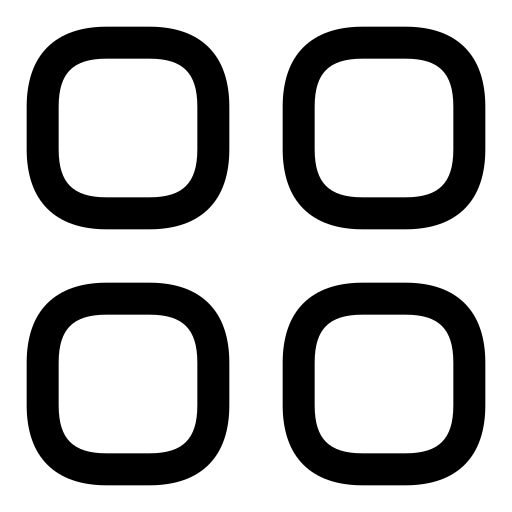
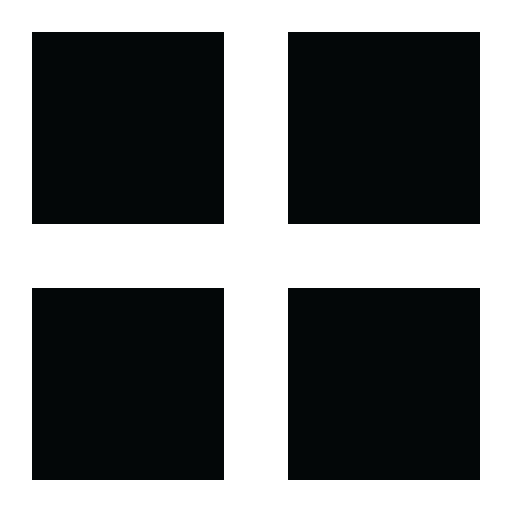
Grid Changes

diff --git a/src/components/Filter.css b/src/components/Filter.css
@@ -177,158 +177,20 @@ button{
     margin: 2px 0px;    
 }
 
-/* The RadioContainer */
-.RadioContainer {
-    display: block;
-    position: relative;
-    padding-left: 35px;
-    margin-bottom: 12px;
+/* Common styling for RadioContainer and CheckboxContainer */
+.RadioContainer,
+.CheckboxContainer {
     cursor: pointer;
     font-size: 22px;
-    -webkit-user-select: none;
-    -moz-user-select: none;
-    -ms-user-select: none;
-    user-select: none;
-  }
-  
-/* Hide the browser's default checkbox */
-.RadioContainer input {
-    position: absolute;
-    opacity: 0;
-    cursor: pointer;
-    height: 0;
-    width: 0;
-}
-  
-/* Create a custom checkbox */
-.checkmark {
-    position: absolute;
-    top: 0;
-    left: 0;
-    height: 25px;
-    width: 25px;
-    background-color: #eee;
-    border-radius: 5px;
-}
-  
-/* On mouse-over, add a grey background color */
-.RadioContainer:hover input ~ .checkmark {
-    background-color: #ccc;
-}
-  
-/* When the checkbox is checked, add a blue background */
-.RadioContainer input:checked ~ .checkmark {
-    background-color: #ae7736;
-}
-  
-/* Create the checkmark/indicator (hidden when not checked) */
-.checkmark:after {
-    content: "";
-    position: absolute;
-    display: none;
-}
-  
-/* Show the checkmark when checked */
-.RadioContainer input:checked ~ .checkmark:after {
-    display: block;
-}
-  
-/* Style the checkmark/indicator */
-.RadioContainer .checkmark:after {
-    left: 9px;
-    top: 5px;
-    width: 5px;
-    height: 10px;
-    border: solid white;
-    border-width: 0 3px 3px 0;
-    -webkit-transform: rotate(45deg);
-    -ms-transform: rotate(45deg);
-    transform: rotate(45deg);
 }
 
 
-
-
-
-/* On mouse-over, add a grey background color */
-.CheckboxContainerWhite:hover input ~ .checkmark {
-    background-color: #ccc;
-}
-/* When the checkbox is checked, add a blue background */
-.CheckboxContainerWhite input:checked ~ .checkmark {
-    background-color: #ae7736;
-}
-
-.CheckboxContainerBlack:hover input ~ .checkmark {
-    background-color: #494F55;
-}
-
-.CheckboxContainerBlack input:checked ~ .checkmark {
-    background-color: #0C0404;
-}
-
-.CheckboxContainerBlue:hover input ~ .checkmark {
-    background-color: #7CB9E8;
-}
-.CheckboxContainerBlue input:checked ~ .checkmark {
-    background-color: #002D62;
-}
-
-.CheckboxContainerRed:hover input ~ .checkmark {
-    background-color: #fd5c63;
-}
-.CheckboxContainerRed input:checked ~ .checkmark {
-    background-color: #AA0000;
-}
-
-.CheckboxContainerGreen:hover input ~ .checkmark {
-    background-color: #90EE90;
-}
-.CheckboxContainerGreen input:checked ~ .checkmark {
-    background-color: #004526;
-}
-
-/* Show the checkmark when checked */
-.CheckboxContainer input:checked ~ .checkmark:after {
-    display: block;
-}
-  
-/* The RadioContainer */
-.CheckboxContainer   {
-    display: block;
-    position: relative;
-    padding-left: 35px;
-    margin-bottom: 12px;
-    cursor: pointer;
-    font-size: 22px;
-    -webkit-user-select: none;
-    -moz-user-select: none;
-    -ms-user-select: none;
-    user-select: none;
-  }
-
-
-/* Hide the browser's default checkbox */
+/* Styling for the input element within CheckboxContainer */
 .CheckboxContainer input {
-    position: absolute;
-    opacity: 0;
-    cursor: pointer;
-    height: 0;
-    width: 0;
+    padding: 10px; /* Adjust the padding as needed */
 }
 
-/* Style the checkmark/indicator */
-.CheckboxContainer .checkmark:after {
-    left: 9px;
-    top: 5px;
-    width: 5px;
-    height: 10px;
-    border: solid white;
-    border-width: 0 3px 3px 0;
-    -webkit-transform: rotate(45deg);
-    -ms-transform: rotate(45deg);
-    transform: rotate(45deg);
-}
+
 
 .StyleRadio{
     padding: 5px 0;

diff --git a/src/Pages/Products.js b/src/Pages/Products.js
@@ -271,17 +271,22 @@ function Products({ appliedFilters }) {
     }
   ];
 
+  const [selectedGrid, setSelectedGrid] = useState('Grid3'); // Default selected grid
+
   const switchTo2x2Grid = () => {
     setGridColumns('repeat(auto-fill, minmax(500px, 1fr))');
+    setSelectedGrid('Grid2');
   };
-  
+
   const switchTo3x3Grid = () => {
     setGridColumns('repeat(auto-fill, minmax(400px, 1fr))');
+    setSelectedGrid('Grid3');
   };
 
   const switchTo4x4Grid = () => {
     setGridColumns('repeat(auto-fill, minmax(250px, 1fr))');
-  };
+    setSelectedGrid('Grid4');
+  }
 
   const handlePageChange = (page) => {
     setCurrentPage(page);
@@ -325,14 +330,15 @@ function Products({ appliedFilters }) {
 
 return (
   <div>
-    <div className="grid-icons">
-          <img className='Grid2' src={grid2} onClick={switchTo2x2Grid}/>
-          <img className='Grid3' src={grid3} onClick={switchTo3x3Grid}/>
-          <img className='Grid4' src={grid4} onClick={switchTo4x4Grid}/>
-        </div>
-      <div className='ProductsList' style={{ gridTemplateColumns: gridColumns }}>{shoeCards}</div>
-      <Pagination currentPage={currentPage} totalPages={totalPages} onPageChange={handlePageChange} />
+  <div className="grid-icons">
+    <img className={selectedGrid === 'Grid2' ? 'Grid2 selected' : 'Grid2'} src={grid2} onClick={switchTo2x2Grid} />
+    <img className={selectedGrid === 'Grid3' ? 'Grid3 selected' : 'Grid3'} src={grid3} onClick={switchTo3x3Grid} />
+    <img className={selectedGrid === 'Grid4' ? 'Grid4 selected' : 'Grid4'} src={grid4} onClick={switchTo4x4Grid} />
   </div>
+  <p className="total-products">Total Products: {filteredShoes.length}</p>
+  <div className='ProductsList' style={{ gridTemplateColumns: gridColumns }}>{shoeCards}</div>
+  <Pagination currentPage={currentPage} totalPages={totalPages} onPageChange={handlePageChange} />
+</div>
         
 );
 }

diff --git a/src/Pages/Products.css b/src/Pages/Products.css
@@ -34,11 +34,7 @@
 .ProductCard{
     text-align: center;
 }
-.grid-icons > img{
-    width: 50px;
-    margin: 40px 40px 40px 40px;
-    cursor: pointer;
-}
+
 .ProductsList {
     display: grid;
     grid-template-columns: repeat(auto-fill, minmax(300px, 1fr));
@@ -46,11 +42,6 @@
     padding: 0 30px;
     justify-content: center;
 }
-.grid-icons{
-    text-align: center;
-    padding: 0 20px;
-}
-
 
 
 .pagination {
@@ -81,4 +72,41 @@
     color: #fff;
     border-color: #ae7736;
 }
+
+.total-products{
+    font-size:larger;
+    padding: 30px 20px;
+}
+
+.Grid2.selected {
+    border: 2px solid blue; /* Add your selected grid styling here */
+  }
   
+  .Grid3.selected {
+    border: 2px solid blue; /* Add your selected grid styling here */
+  }
+  
+  .Grid4.selected {
+    border: 2px solid blue; /* Add your selected grid styling here */
+  }
+.Grid2{
+    width: 70px;
+}
+.Grid3{
+    width: 69px;
+}
+.Grid4{
+    width: 83px;
+    margin-top: -6px;
+    position: absolute;
+    
+}
+.grid-icons{
+    text-align: center;
+    place-self: center;
+}
+.grid-icons > img{
+    cursor: pointer;
+    margin-left: 40px;
+    margin-right: 40px;
+}

diff --git a/src/components/Filter.js b/src/components/Filter.js
@@ -239,7 +239,7 @@ return (
                 </label>
               </div>
           </div>
-            
+          
         </div>
       </div>
       )}
